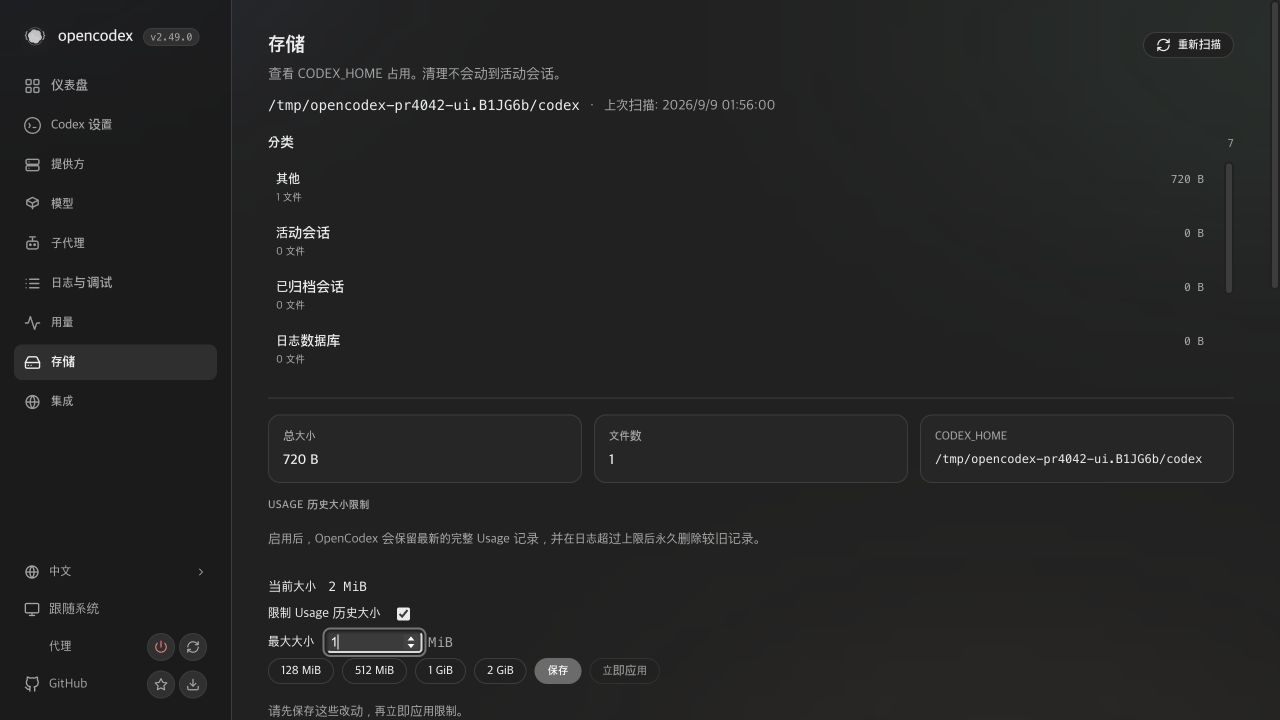
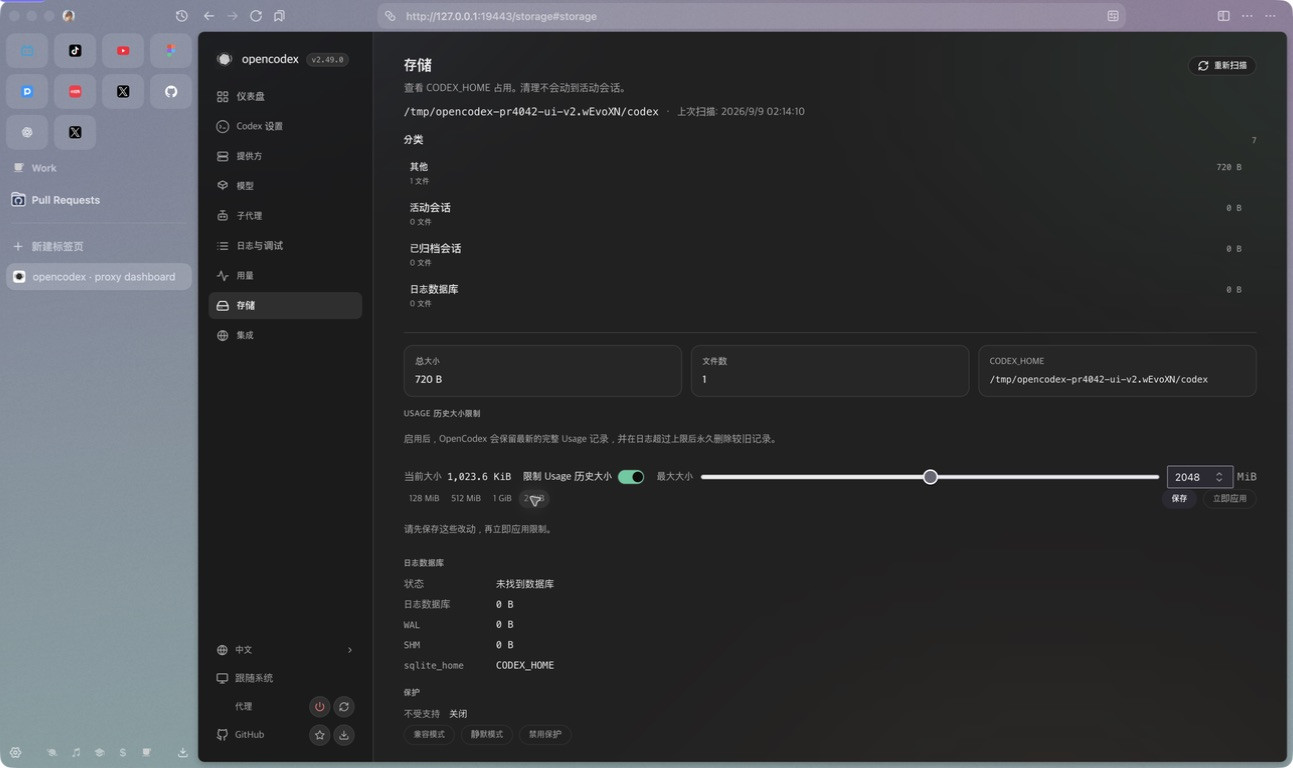
fix(storage): reconcile retention route parity

diff --git a/src/server/management/storage-log-guard-routes.ts b/src/server/management/storage-log-guard-routes.ts
@@ -126,43 +126,41 @@ export async function handleStorageLogGuardRoutes(ctx: ManagementContext): Promi
   const { req, url, config, deps } = ctx;
   const protectionDeps = deps.codexLogGuardProtectionDeps;
 
-  if (url.pathname === "/api/storage/usage-ledger-retention") {
-    if (req.method === "GET") {
+  if (url.pathname === "/api/storage/usage-ledger-retention" && req.method === "GET") {
+    return jsonResponse({
+      ...getUsageLedgerRetentionStatus(config),
+      job: getUsageLedgerRetentionJobState(),
+    }, 200, req, config);
+  }
+
+  if (url.pathname === "/api/storage/usage-ledger-retention" && req.method === "PUT") {
+    let body: unknown;
+    try {
+      body = await readManagementJsonBody(req);
+    } catch (error) {
+      const tooLarge = managementBodyTooLargeResponse(error, req, config);
+      if (tooLarge) return tooLarge;
+      return jsonResponse({ error: "invalid_json" }, 400, req, config);
+    }
+    const previous = getUsageLedgerRetentionStatus(config);
+    const parsed = parseUsageLedgerRetentionInput(body, previous);
+    if (!parsed.ok) return jsonResponse({ error: parsed.error }, 400, req, config);
+    try {
+      const saved = writeUsageLedgerRetentionToConfig(parsed.policy);
+      applyUsageLedgerRetentionToLiveConfig(config, saved);
+      // Every policy change invalidates the snapshot captured by an older Worker.
+      // The old preparation may finish, but its generation can no longer commit.
+      invalidateUsageLedgerRetentionRun();
+      // PUT changes policy only. Automatic enforcement belongs to the scheduler;
+      // the explicit /run route is the operator's immediate destructive action.
       return jsonResponse({
+        ok: true,
         ...getUsageLedgerRetentionStatus(config),
         job: getUsageLedgerRetentionJobState(),
       }, 200, req, config);
+    } catch {
+      return jsonResponse({ error: "config_write_failed" }, 500, req, config);
     }
-    if (req.method === "PUT") {
-      let body: unknown;
-      try {
-        body = await readManagementJsonBody(req);
-      } catch (error) {
-        const tooLarge = managementBodyTooLargeResponse(error, req, config);
-        if (tooLarge) return tooLarge;
-        return jsonResponse({ error: "invalid_json" }, 400, req, config);
-      }
-      const previous = getUsageLedgerRetentionStatus(config);
-      const parsed = parseUsageLedgerRetentionInput(body, previous);
-      if (!parsed.ok) return jsonResponse({ error: parsed.error }, 400, req, config);
-      try {
-        const saved = writeUsageLedgerRetentionToConfig(parsed.policy);
-        applyUsageLedgerRetentionToLiveConfig(config, saved);
-        // Every policy change invalidates the snapshot captured by an older Worker.
-        // The old preparation may finish, but its generation can no longer commit.
-        invalidateUsageLedgerRetentionRun();
-        // PUT changes policy only. Automatic enforcement belongs to the scheduler;
-        // the explicit /run route is the operator's immediate destructive action.
-        return jsonResponse({
-          ok: true,
-          ...getUsageLedgerRetentionStatus(config),
-          job: getUsageLedgerRetentionJobState(),
-        }, 200, req, config);
-      } catch {
-        return jsonResponse({ error: "config_write_failed" }, 500, req, config);
-      }
-    }
-    return null;
   }
 
   if (url.pathname === "/api/storage/usage-ledger-retention/run" && req.method === "POST") {
